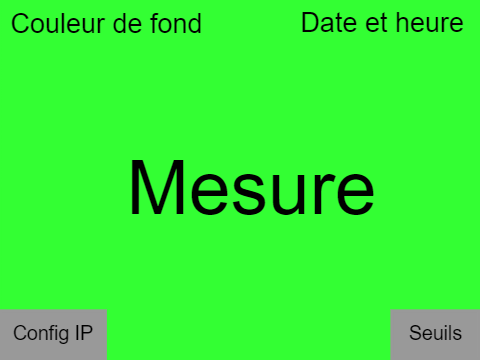
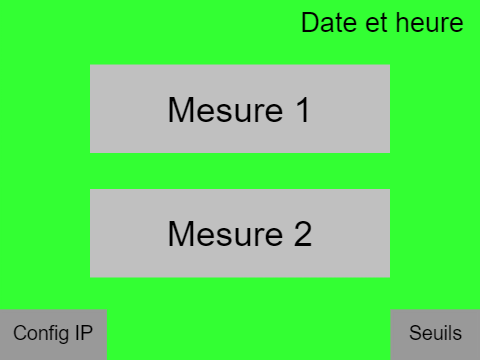
V2

diff --git a/Prototype IHM/index.html b/Prototype IHM/index.html
@@ -1,2 +1,2 @@
 <html xmlns="http://www.w3.org/1999/xhtml" xmlns:p="http://www.evolus.vn/Namespace/Pencil" xmlns:html="http://www.w3.org/1999/xhtml"><head><meta http-equiv="Content-Type" content="text/html; charset=UTF-8" />
-<title>Proto V2</title><link rel="stylesheet" href="Resources/style.css" /><script type="application/javascript" src="Resources/script.js"></script></head><body><h1 id="documentTitle">Proto V2</h1><p id="documentMetadata">Exported at: Mon Jan 26 2026 11:54:51 GMT+0100 (heure normale d’Europe centrale)</p><div class="Page" id="mesures_correctes_page"><h2>Mesures correctes</h2><div class="ImageContainer"><img src="pages\mesures_correctes.png" width="320" height="240" usemap="#map_mesures_correctes" /></div><p class="Notes"></p><div>Affichage de la mesure des sondes</div><p></p><map name="map_mesures_correctes"><area shape="rect" coords="0.2500455975532532,207.2500457763672,70.2500455975533,239.000045776367" href="#configuration_ip_page" title="Go to page 'Configuration IP'" /><area shape="rect" coords="261.25006103515625,207.2500457763672,319.250061035156,239.000045776367" href="#configuration_des_seuils_page" title="Go to page 'Configuration des seuils'" /></map></div><div class="Page" id="configuration_des_seuils_page"><h2>Configuration des seuils</h2><div class="ImageContainer"><img src="pages\configuration_des_seuils.png" width="320" height="240" usemap="#map_configuration_des_seuils" /></div><p class="Notes"></p><div>Consultation des différents seuils configurés</div><p></p><map name="map_configuration_des_seuils"><area shape="rect" coords="261.25006103515625,207.2500457763672,319.250061035156,239.000045776367" href="#mesures_correctes_page" title="Go to page 'Mesures correctes'" /></map></div><div class="Page" id="configuration_ip_page"><h2>Configuration IP</h2><div class="ImageContainer"><img src="pages\configuration_ip.png" width="320" height="240" usemap="#map_configuration_ip" /></div><p class="Notes"></p><div>Configuration réseau de la carte Unihiker</div><p></p><map name="map_configuration_ip"><area shape="rect" coords="261.2500915527344,207.25006103515625,319.250091552734,239.000061035156" href="#mesures_correctes_page" title="Go to page 'Mesures correctes'" /></map></div><div class="Page" id="mesures_moyennes_page"><h2>Mesures moyennes</h2><div class="ImageContainer"><img src="pages\mesures_moyennes.png" width="320" height="240" usemap="#map_mesures_moyennes" /></div><p class="Notes"></p><div>Affichage de la mesure des sondes </div><p></p><map name="map_mesures_moyennes"><area shape="rect" coords="0.2500455975532532,207.2500457763672,70.2500455975533,239.000045776367" href="#configuration_ip_page" title="Go to page 'Configuration IP'" /><area shape="rect" coords="261.25006103515625,207.2500457763672,319.250061035156,239.000045776367" href="#configuration_des_seuils_page" title="Go to page 'Configuration des seuils'" /></map></div><div class="Page" id="mesures_dangereurses_page"><h2>Mesures dangereurses</h2><div class="ImageContainer"><img src="pages\mesures_dangereurses.png" width="320" height="240" usemap="#map_mesures_dangereurses" /></div><p class="Notes"></p><div>Affichage de la mesure des sondes </div><p></p><map name="map_mesures_dangereurses"><area shape="rect" coords="0.2500455975532532,207.2500457763672,70.2500455975533,239.000045776367" href="#configuration_ip_page" title="Go to page 'Configuration IP'" /><area shape="rect" coords="261.25006103515625,207.2500457763672,319.250061035156,239.000045776367" href="#configuration_des_seuils_page" title="Go to page 'Configuration des seuils'" /></map></div></body></html>
+<title>Proto V2</title><link rel="stylesheet" href="Resources/style.css" /><script type="application/javascript" src="Resources/script.js"></script></head><body><h1 id="documentTitle">Proto V2</h1><p id="documentMetadata">Exported at: Mon Feb 02 2026 17:25:33 GMT+0100 (heure normale d’Europe centrale)</p><div class="Page" id="mesures_correctes_page"><h2>Mesures correctes</h2><div class="ImageContainer"><img src="pages\mesures_correctes.png" width="320" height="240" usemap="#map_mesures_correctes" /></div><p class="Notes"></p><div>Affichage de la mesure des sondes</div><p></p><map name="map_mesures_correctes"><area shape="rect" coords="0.2500455975532532,207.2500457763672,70.2500455975533,239.000045776367" href="#configuration_ip_page" title="Go to page 'Configuration IP'" /><area shape="rect" coords="261.25006103515625,207.2500457763672,319.250061035156,239.000045776367" href="#configuration_des_seuils_page" title="Go to page 'Configuration des seuils'" /></map></div><div class="Page" id="configuration_des_seuils_page"><h2>Configuration des seuils</h2><div class="ImageContainer"><img src="pages\configuration_des_seuils.png" width="320" height="240" usemap="#map_configuration_des_seuils" /></div><p class="Notes"></p><div>Consultation des différents seuils configurés</div><p></p><map name="map_configuration_des_seuils"><area shape="rect" coords="261.25006103515625,207.2500457763672,319.250061035156,239.000045776367" href="#mesures_correctes_page" title="Go to page 'Mesures correctes'" /></map></div><div class="Page" id="configuration_ip_page"><h2>Configuration IP</h2><div class="ImageContainer"><img src="pages\configuration_ip.png" width="320" height="240" usemap="#map_configuration_ip" /></div><p class="Notes"></p><div>Configuration réseau de la carte Unihiker</div><p></p><map name="map_configuration_ip"><area shape="rect" coords="261.2500915527344,207.25006103515625,319.250091552734,239.000061035156" href="#mesures_correctes_page" title="Go to page 'Mesures correctes'" /></map></div><div class="Page" id="mesures_moyennes_page"><h2>Mesures moyennes</h2><div class="ImageContainer"><img src="pages\mesures_moyennes.png" width="320" height="240" usemap="#map_mesures_moyennes" /></div><p class="Notes"></p><div>Affichage de la mesure des sondes </div><p></p><map name="map_mesures_moyennes"><area shape="rect" coords="0.2500455975532532,207.2500457763672,70.2500455975533,239.000045776367" href="#configuration_ip_page" title="Go to page 'Configuration IP'" /><area shape="rect" coords="261.25006103515625,207.2500457763672,319.250061035156,239.000045776367" href="#configuration_des_seuils_page" title="Go to page 'Configuration des seuils'" /></map></div><div class="Page" id="mesures_dangereurses_page"><h2>Mesures dangereurses</h2><div class="ImageContainer"><img src="pages\mesures_dangereurses.png" width="320" height="240" usemap="#map_mesures_dangereurses" /></div><p class="Notes"></p><div>Affichage de la mesure des sondes </div><p></p><map name="map_mesures_dangereurses"><area shape="rect" coords="0.2500455975532532,207.2500457763672,70.2500455975533,239.000045776367" href="#configuration_ip_page" title="Go to page 'Configuration IP'" /><area shape="rect" coords="261.25006103515625,207.2500457763672,319.250061035156,239.000045776367" href="#configuration_des_seuils_page" title="Go to page 'Configuration des seuils'" /></map></div></body></html>
